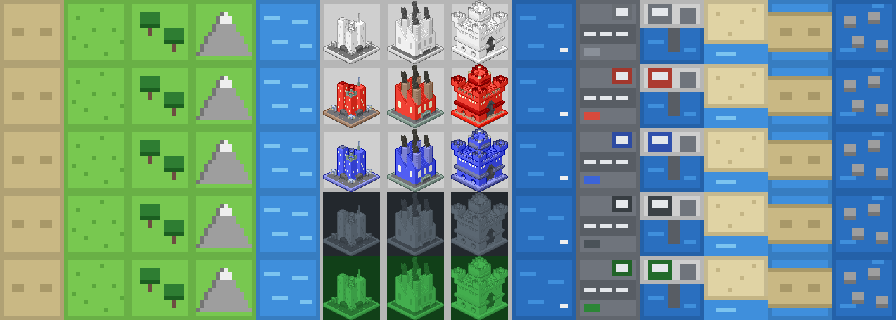
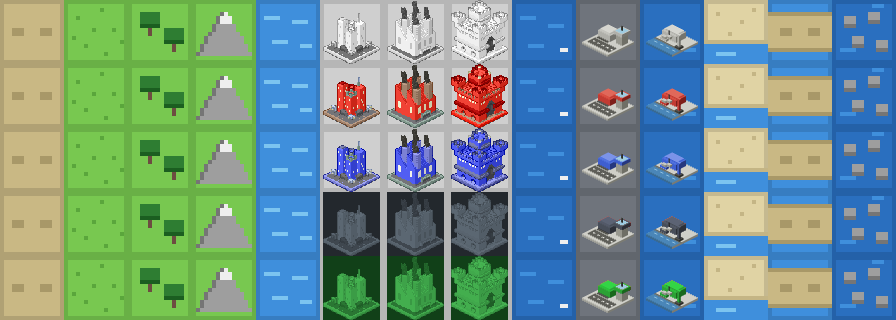
Add hand-authored airport and port building sprites
Replace the flat 16px generated airport/port art with 64px isometric
buildings from the design-system handoff (project-original, PixVoxel
style), vendored under assets/sprites/iso_buildings. Neutral/red/blue are
hand-authored; iron/verdant derive from red via tint_iso_air_sea.sh, which
now covers both hand-authored sprite families so the faction tint recipe
stays in one place. build_pixvoxel_atlases.sh composites the buildings
into terrain-atlas columns 9-10 over rebuilt grounds and asserts the ten
sources in --check; generate_tiles.gd leaves those cells as bare grounds,
like the city/base/hq lots. Every other atlas byte rebuilds identical.

Changed region(s): [[0.625, 0.0, 0.8125, 0.5938], [0.625, 0.5938, 0.8125, 1.0]]

diff --git a/assets/LICENSES.md b/assets/LICENSES.md
@@ -5,8 +5,9 @@ source and license. Nintendo assets, names, and trade dress are never allowed.
 
 | Asset | Source | License |
 |---|---|---|
-| `tiles/terrain_atlas.png` (ground: road, plains, woods, mountain, river, sea, shoal, bridge, reef — plus airport and port, buildings included) | generated by `tools/generate_tiles.gd` | project-original |
+| `tiles/terrain_atlas.png` (ground: road, plains, woods, mountain, river, sea, shoal, bridge, reef, and the grounds under every property) | generated by `tools/generate_tiles.gd` | project-original |
 | `tiles/terrain_atlas.png` (city, base, hq) and `tiles/units_atlas.png` columns 0–8 | PixVoxel Revised Wargame Sprites — see below | CC0 |
+| `tiles/terrain_atlas.png` (airport, port buildings) and `sprites/iso_buildings/*.png` (10 vendored sources) | original project art — see below | project-original |
 | `tiles/units_atlas.png` columns 9–12 and 14–17 (the aircraft and the fleet) and `sprites/iso_air_sea/*.png` (40 vendored sources) | original project art — see below | project-original |
 | `tiles/units_atlas.png` column 13 (Missiles) | generated by `tools/generate_unit_placeholders.gd` — **placeholder art**, see below | project-original |
 | `sprites/pixvoxel_src/*.png` (36 vendored source sprites) | PixVoxel Revised Wargame Sprites — see below | CC0 |
@@ -25,6 +26,16 @@ masked HSB rotation of the team-coloured pixels (plan FI1), not hand-painted;
 re-run it whenever the red sprites change and commit the result. All 40 are
 vendored under `sprites/iso_air_sea/` and replace the generated placeholders that
 previously occupied those columns. Rebuild the atlas from them with `make tiles`.
+
+## Airport and port building sprites
+
+The airport and port buildings (2 buildings × 5 team rows, 64×64 RGBA, drawn to
+match the PixVoxel style — the pack has no hangar and no quay) are the same
+class of art under the same terms: neutral/red/blue hand-authored, iron/verdant
+derived by the same `tools/tint_iso_air_sea.sh` run. All 10 are vendored under
+`sprites/iso_buildings/` and composited onto their generated grounds — an
+asphalt apron and open water — by `tools/build_pixvoxel_atlases.sh`, replacing
+the flat 16px generated art that previously drew those two tiles whole.
 
 ## Commander portraits — placeholder status
 

diff --git a/README.md b/README.md
@@ -357,9 +357,10 @@ result, including one capability that measured *negative* and ships switched off
 
 Ground units and the city/base/hq buildings come from the CC0 [PixVoxel Revised Wargame
 Sprites](https://opengameart.org/content/pixvoxel-revised-isometric-wargame-sprites); the ground
-tiles and the airport are generated programmer art. The aircraft and the fleet are original
-hand-authored isometric sprites, vendored under `assets/sprites/iso_air_sea`; only Missiles is
-still a generated placeholder. The commander portraits and faction emblems are generated
+tiles are generated programmer art. The aircraft and the fleet are original hand-authored isometric
+sprites, vendored under `assets/sprites/iso_air_sea`, and the airport and port buildings are the
+same class of art, vendored under `assets/sprites/iso_buildings`; only Missiles is still a
+generated placeholder. The commander portraits and faction emblems are generated
 placeholder art too (`make portraits`) — project-original, no third-party pixels — until the final
 portrait pass. All sound is generated placeholder chiptune (`make sfx`). There is no music yet — it
 needs licensed tracks. Third-party asset licenses must be tracked in `assets/LICENSES.md`. No
@@ -367,7 +368,8 @@ Nintendo assets or names may ever be used.
 
 `make tiles` rebuilds the art in seven ordered steps: `sprites-check` and `unit-sprites-check`
 verify the build inputs, `ground` draws the terrain headless, `sprites` composites the PixVoxel art
-over it, `unit-sprites` re-pastes the hand-authored air and naval sprites, `unit-placeholders`
+and the airport/port buildings over it, `unit-sprites` re-pastes the hand-authored air and naval
+sprites, `unit-placeholders`
 draws the units still lacking real art, and `import` reimports the result — Godot caches image
 imports by size, so skipping the last step after a rebuild that changes atlas dimensions renders a
 blank map. The checks run first because `ground` is destructive: it replaces the committed building